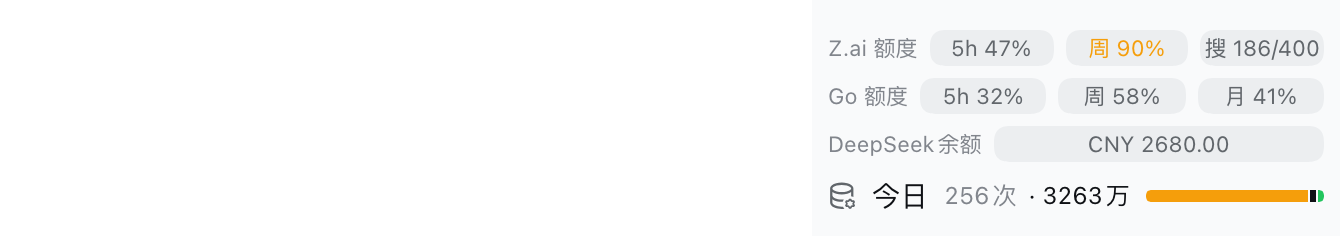
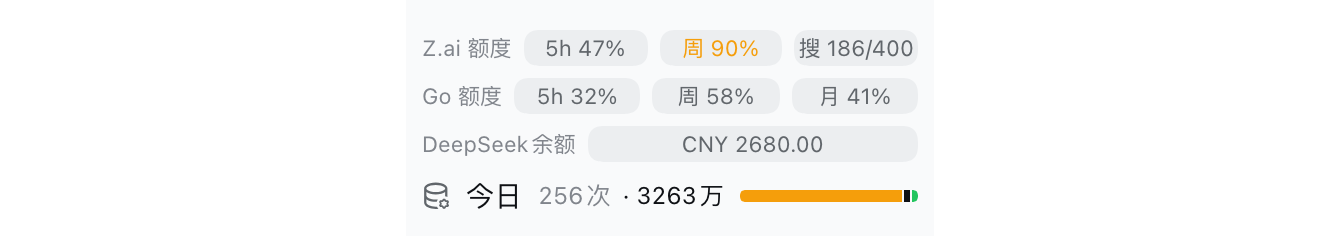
docs: 修正 README 侧边栏截图未居中
footer-wide 补白图按 1340×236 透明画布重新合成，原图内容居中、左右留白各 406px，像素与原图一致。

diff --git a/CHANGELOG.md b/CHANGELOG.md
@@ -6,6 +6,10 @@
 
 ## [Unreleased]
 
+### 清理
+
+- 修正 README 侧边栏截图未居中
+
 ## [0.6.0] - 2026-11-13
 
 ### 功能
